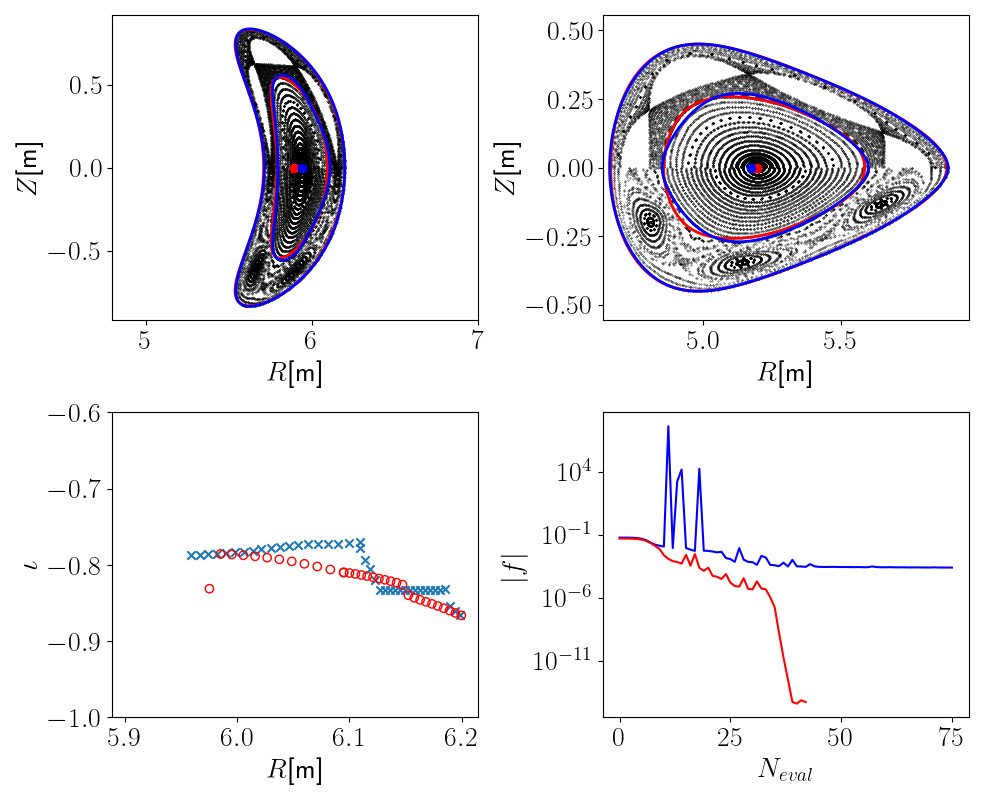
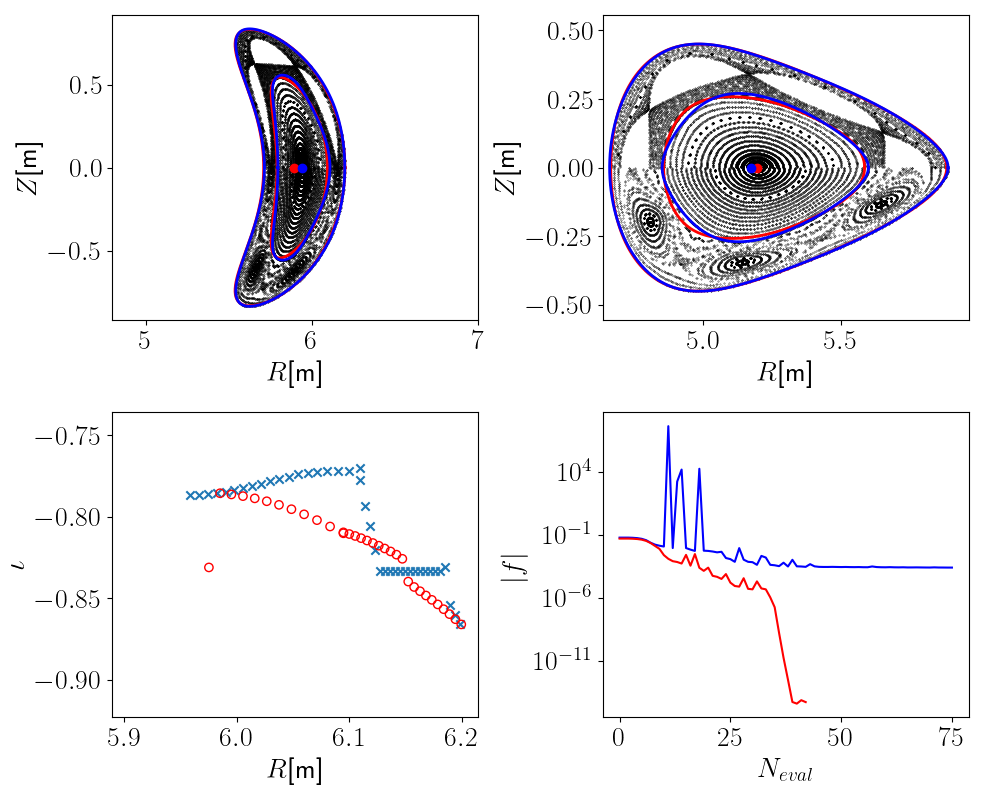
update

diff --git a/scripts/HennebergRepresentation/plot_comparison.py b/scripts/HennebergRepresentation/plot_comparison.py
@@ -3,7 +3,7 @@ import matplotlib.pyplot as plt
 
 plt.rcParams['text.usetex'] = True
 
-ii = 2
+ii = 4
 
 
 bean = ii==1
